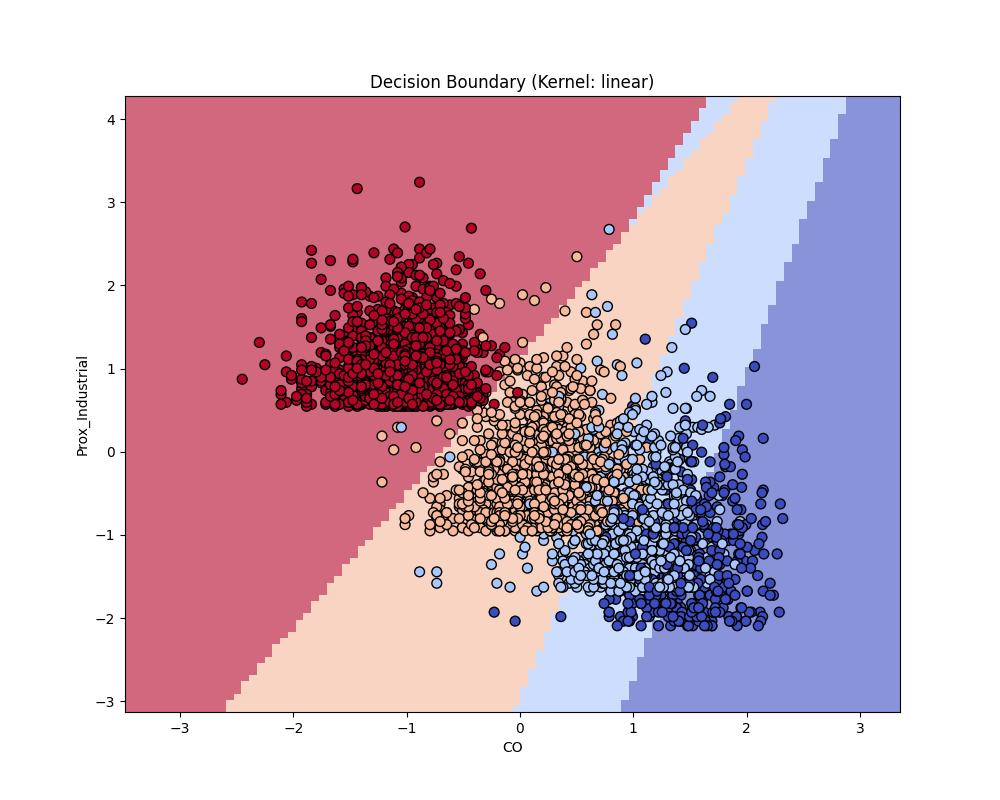
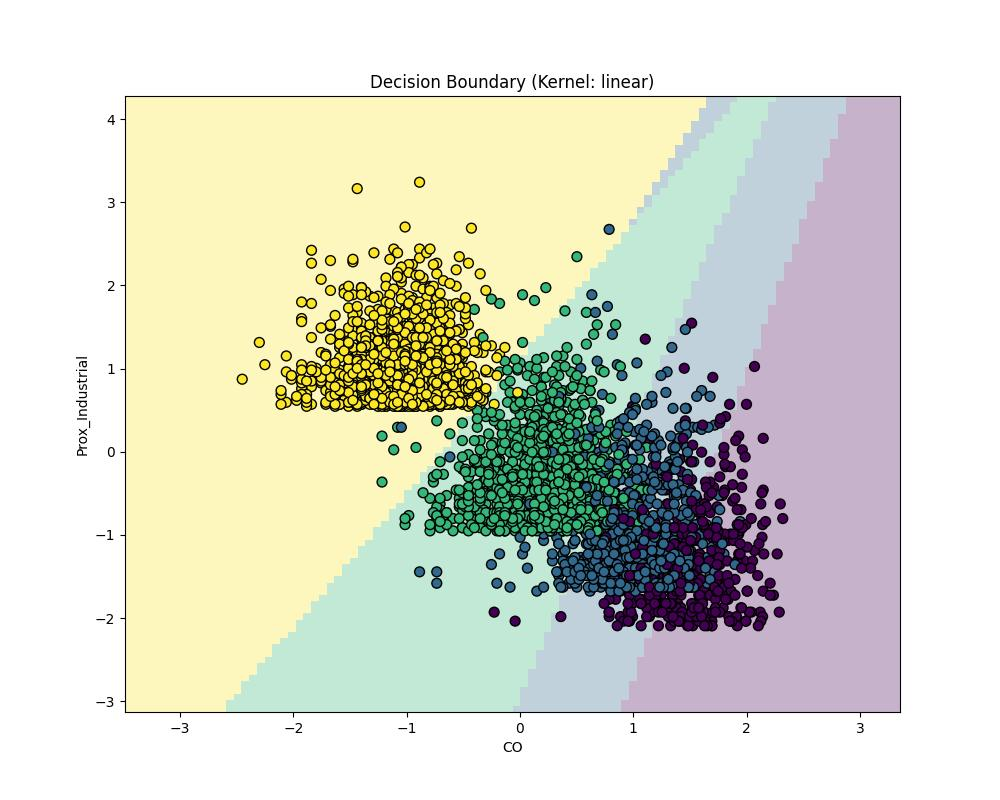
svm plots

diff --git a/HW3/utils/svm_class.py b/HW3/utils/svm_class.py
@@ -1,4 +1,5 @@
 from sklearn.svm import SVC
+from matplotlib.colors import ListedColormap
 from sklearn.inspection import DecisionBoundaryDisplay
 from matplotlib import pyplot as plt
 from sklearn import metrics
@@ -58,15 +59,17 @@ class SVM:
             return
 
         fig, ax = plt.subplots(figsize=(10, 8))
+        colors_points = ["#440154", "#31688e", "#35b779", "#fde725"]
+        custom_cmap = ListedColormap(colors_points)
 
         DecisionBoundaryDisplay.from_estimator(
             self.model,
             self.x_train_ref,
             response_method="predict",
-            cmap="coolwarm",
+            cmap=custom_cmap,
             plot_method="pcolormesh",
             shading="auto",
-            alpha=0.6,
+            alpha=0.3,
             ax=ax,
         )
 
@@ -77,8 +80,8 @@ class SVM:
             x_axis = self.x_train_ref[:, 0]
             y_axis = self.x_train_ref[:, 1]
 
-        ax.scatter(
-            x_axis, y_axis, c=self.y_train_ref, edgecolors="k", cmap="coolwarm", s=50
+        scatter = ax.scatter(
+            x_axis, y_axis, c=self.y_train_ref, edgecolors="k", cmap=custom_cmap, s=50
         )
 
         plt.title(f"Decision Boundary (Kernel: {self.method})")
